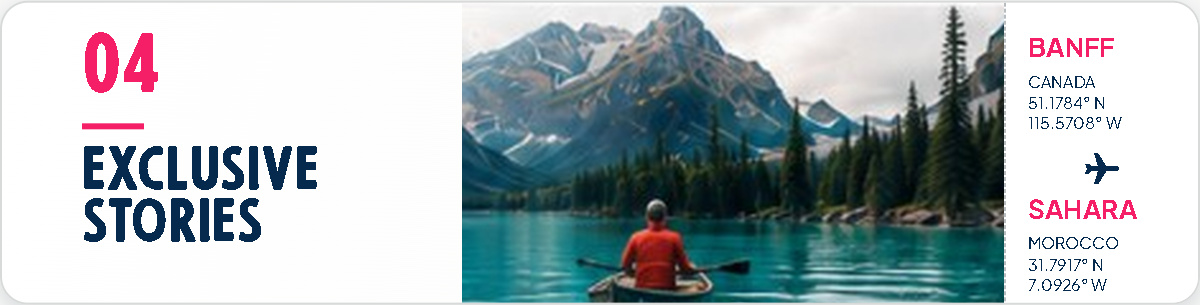
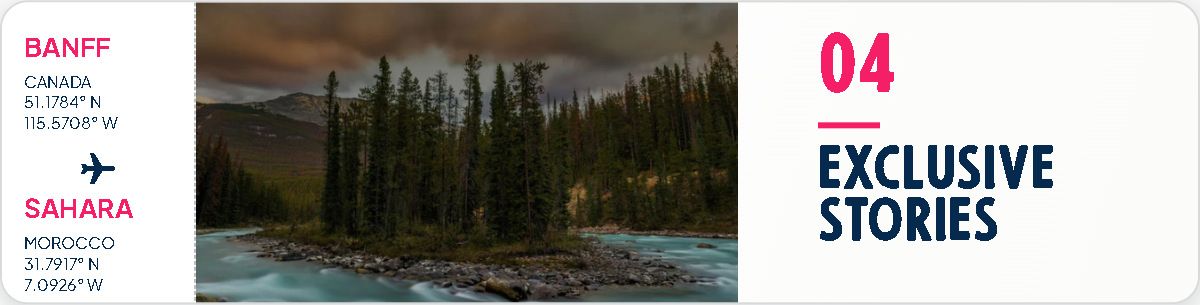
new

diff --git a/index.html b/index.html
@@ -64,9 +64,19 @@
 
   <table role="presentation" width="600" cellpadding="0" cellspacing="0" border="0" style="width:100%; max-width:600px; font-family:'Plus Jakarta Sans',Arial,Helvetica,sans-serif;">
 
-    <!-- ══ HERO ════════════════════════════════════════════════════════ -->
+    <!-- ══ BRAND BAR — Sir: "Trvler.co logo wla lagao" ════════════════ -->
     <tr>
       <td style="font-size:0; line-height:0;">
+        <a href="https://trvler.co?utm_source=newsletter&amp;utm_medium=email&amp;utm_campaign=welcome">
+          <img src="img/brand.jpg" width="600" alt="Trvler.co"
+               style="display:block; width:100%; max-width:600px; height:auto; border:0; border-radius:14px;">
+        </a>
+      </td>
+    </tr>
+
+    <!-- ══ HERO ════════════════════════════════════════════════════════ -->
+    <tr>
+      <td style="padding-top:12px; font-size:0; line-height:0;">
         <a href="https://trvler.co?utm_source=newsletter&amp;utm_medium=email&amp;utm_campaign=welcome">
           <img src="img/hero.jpg" width="600" alt="Welcome to The Trvler.co Magazine"
                style="display:block; width:100%; max-width:600px; height:auto; border:0; border-radius:14px;">

diff --git a/README.md b/README.md
@@ -59,6 +59,47 @@ be exported again:
 
 ---
 
+## Round of changes from Sir (27 Aug)
+
+| Asked | Done |
+|---|---|
+| *"Inko left right karkay dekhao"* | Tickets now alternate: **01 photo-right, 02 photo-left, 03 photo-right, 04 photo-left** |
+| *"Heading font humara wala karo"* | The hero headline is no longer baked into a photo. It is live text in **56th Street**, the site's own display face, over a clean image |
+| *"Trvler.co logo wla lagao"* | Real logo bar at the top, from `footer-logo-hd.png`, recoloured navy for the light background |
+| *"Images change ho saktay hain"* | Every photo replaced with a genuinely high-resolution one from trvler.co's own library |
+
+### Photos, and why each one
+
+Every photo now comes from trvler.co's own library - real destinations the site
+already covers, and every one cropped **down** from a larger original, so the
+detail is real rather than stretched.
+
+| Section | Photo | Source size |
+|---|---|---|
+| Hero | Moraine Lake, Banff | 1100 x 1646 |
+| 01 Travel Updates | aerial turquoise water, paddleboarders | 3000 x 1144 |
+| 02 Videos | Pont Alexandre III at dusk | 1920 x 1358 |
+| 03 Shorts | misty forest bridge | 3000 x 1144 |
+| 04 Exclusive Stories | forest river, Canadian Rockies | 1600 x 600 |
+| Gallery | Cancun / San Francisco / Halifax / Mexico City | 1440x806, 1000x666, **8177 x 5451**, 1916 x 821 |
+
+Captions match their pictures. The hero says **ARRIVED / CANADA / BANFF** and
+shows Moraine Lake, which is in Banff. Card 02 was relabelled from Tokyo to
+**PARIS, FRANCE** because the photo is Paris - a caption should never contradict
+its picture. Card 04's **BANFF** stub sits over a Canadian Rockies river.
+
+The gallery was rebuilt twice: Sir's originals were 311 x 90 wide strips being
+cropped square, a 2.5x blow-up, and the first replacement set came out too dark.
+The four now in place are the brightest destination shots on the site.
+
+### Two typos that fixed themselves
+
+The hero used to be a flat image with the text burnt in, and that image carried
+**"DVENTURE AWAITS"** (missing A) and a wrong Banff latitude. Now that the hero
+text is live HTML, both read correctly.
+
+---
+
 ## Image quality
 
 Every section ships at **1200px** wide and displays at 600px — 2x on a laptop,
